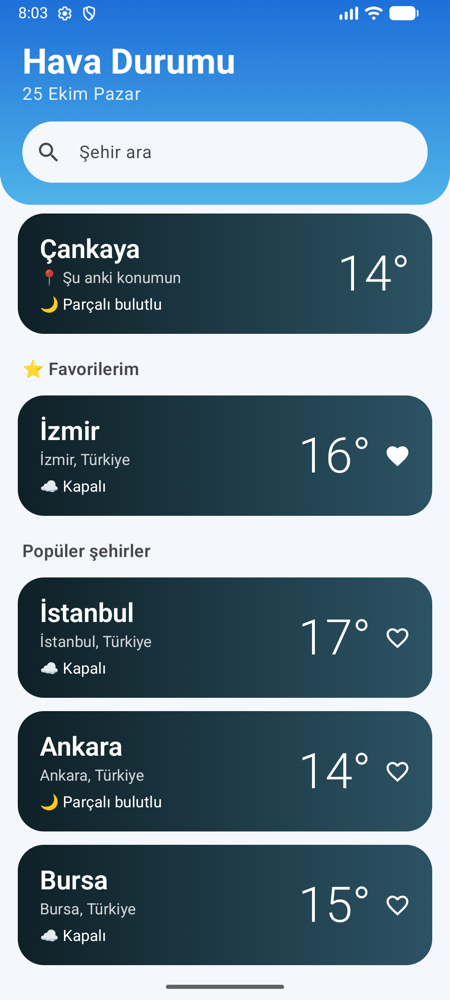
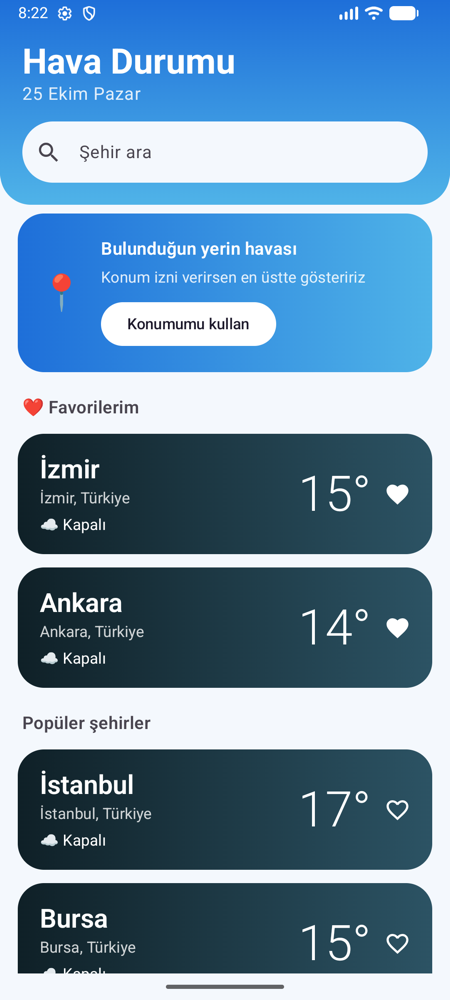
Yaşam döngüsü paneli kaldırıldı (sadece Logcat), favori başlığı kalple uyumlu

diff --git a/app/src/main/java/com/example/hava/DetailScreen.kt b/app/src/main/java/com/example/hava/DetailScreen.kt
@@ -1,8 +1,6 @@
 package com.example.hava
 
-import androidx.compose.animation.AnimatedVisibility
 import androidx.compose.foundation.background
-import androidx.compose.foundation.clickable
 import androidx.compose.foundation.layout.Arrangement
 import androidx.compose.foundation.layout.Box
 import androidx.compose.foundation.layout.Column
@@ -25,9 +23,6 @@ import androidx.compose.material.icons.Icons
 import androidx.compose.material.icons.automirrored.filled.ArrowBack
 import androidx.compose.material.icons.filled.Favorite
 import androidx.compose.material.icons.filled.FavoriteBorder
-import androidx.compose.material.icons.filled.KeyboardArrowDown
-import androidx.compose.material.icons.filled.KeyboardArrowUp
-import androidx.compose.material3.Button
 import androidx.compose.material3.Card
 import androidx.compose.material3.CardDefaults
 import androidx.compose.material3.CircularProgressIndicator
@@ -37,18 +32,11 @@ import androidx.compose.material3.IconButton
 import androidx.compose.material3.MaterialTheme
 import androidx.compose.material3.Text
 import androidx.compose.runtime.Composable
-import androidx.compose.runtime.getValue
-import androidx.compose.runtime.mutableIntStateOf
-import androidx.compose.runtime.mutableStateOf
-import androidx.compose.runtime.remember
-import androidx.compose.runtime.saveable.rememberSaveable
-import androidx.compose.runtime.setValue
 import androidx.compose.ui.Alignment
 import androidx.compose.ui.Modifier
 import androidx.compose.ui.draw.clip
 import androidx.compose.ui.graphics.Brush
 import androidx.compose.ui.graphics.Color
-import androidx.compose.ui.text.font.FontFamily
 import androidx.compose.ui.text.font.FontWeight
 import androidx.compose.ui.text.style.TextAlign
 import androidx.compose.ui.unit.dp
@@ -60,7 +48,6 @@ private val turkish = Locale.forLanguageTag("tr")
 
 @Composable
 fun DetailScreen(
-    activityNo: Int,
     onBack: () -> Unit,
     viewModel: DetailViewModel = viewModel()
 ) {
@@ -104,14 +91,6 @@ fun DetailScreen(
                     DetailsGrid(state.forecast)
                 }
             }
-
-            LifecyclePanel(
-                activityNo = activityNo,
-                viewModelNo = viewModel.instanceNo,
-                requestCount = viewModel.requestCount,
-                viewModelCounter = viewModel.counter,
-                onIncrement = { viewModel.increment() }
-            )
         }
     }
 }
@@ -388,110 +367,6 @@ private fun InfoTile(emoji: String, label: String, value: String, modifier: Modi
                 modifier = Modifier.padding(top = 4.dp)
             )
         }
-    }
-}
-
-// --- Yaşam döngüsü demosu ---
-// remember'daki sayaç Activity ile birlikte ölür (döndürünce 0'a döner),
-// ViewModel'deki sayaç ise döndürmeden etkilenmez.
-@Composable
-private fun LifecyclePanel(
-    activityNo: Int,
-    viewModelNo: Int,
-    requestCount: Int,
-    viewModelCounter: Int,
-    onIncrement: () -> Unit
-) {
-    var expanded by rememberSaveable { mutableStateOf(false) }   // döndürünce kapanmasın
-    var rememberCounter by remember { mutableIntStateOf(0) }      // döndürünce sıfırlanır!
-
-    Card(
-        shape = RoundedCornerShape(24.dp),
-        colors = CardDefaults.cardColors(containerColor = MaterialTheme.colorScheme.primaryContainer)
-    ) {
-        Row(
-            modifier = Modifier
-                .fillMaxWidth()
-                .clickable { expanded = !expanded }
-                .padding(16.dp),
-            verticalAlignment = Alignment.CenterVertically
-        ) {
-            Text(
-                text = "🔬  Yaşam döngüsü demosu",
-                style = MaterialTheme.typography.titleMedium,
-                fontWeight = FontWeight.SemiBold,
-                modifier = Modifier.weight(1f)
-            )
-            Icon(
-                imageVector = if (expanded) Icons.Default.KeyboardArrowUp else Icons.Default.KeyboardArrowDown,
-                contentDescription = null
-            )
-        }
-
-        AnimatedVisibility(visible = expanded) {
-            Column(
-                modifier = Modifier.padding(start = 16.dp, end = 16.dp, bottom = 16.dp),
-                verticalArrangement = Arrangement.spacedBy(12.dp)
-            ) {
-                Text(
-                    text = "Telefonu yan çevir: Activity ölüp yeniden doğar, ama ViewModel aynı kalır. " +
-                            "Bu yüzden ViewModel numarası ve API isteği sayısı değişmez.",
-                    style = MaterialTheme.typography.bodyMedium
-                )
-                Row(horizontalArrangement = Arrangement.spacedBy(8.dp)) {
-                    StatChip("Activity", "#$activityNo", Modifier.weight(1f))
-                    StatChip("ViewModel", "#$viewModelNo", Modifier.weight(1f))
-                    StatChip("API isteği", "$requestCount", Modifier.weight(1f))
-                }
-
-                Text(
-                    text = "Önce birkaç kez +1'e bas, sonra döndür:",
-                    style = MaterialTheme.typography.bodyMedium
-                )
-                Row(
-                    horizontalArrangement = Arrangement.spacedBy(8.dp),
-                    verticalAlignment = Alignment.CenterVertically
-                ) {
-                    StatChip("remember", "$rememberCounter", Modifier.weight(1f))
-                    StatChip("ViewModel", "$viewModelCounter", Modifier.weight(1f))
-                    Button(onClick = {
-                        rememberCounter++
-                        onIncrement()
-                    }) {
-                        Text("+1")
-                    }
-                }
-
-                Text(
-                    text = "Son olaylar (en yeni üstte)",
-                    style = MaterialTheme.typography.labelLarge,
-                    fontWeight = FontWeight.SemiBold
-                )
-                Column {
-                    LifecycleLog.events.forEach { event ->
-                        Text(
-                            text = event,
-                            style = MaterialTheme.typography.bodySmall,
-                            fontFamily = FontFamily.Monospace
-                        )
-                    }
-                }
-            }
-        }
-    }
-}
-
-@Composable
-private fun StatChip(label: String, value: String, modifier: Modifier = Modifier) {
-    Column(
-        modifier = modifier
-            .clip(RoundedCornerShape(16.dp))
-            .background(MaterialTheme.colorScheme.surface.copy(alpha = 0.6f))
-            .padding(vertical = 8.dp),
-        horizontalAlignment = Alignment.CenterHorizontally
-    ) {
-        Text(value, style = MaterialTheme.typography.titleLarge, fontWeight = FontWeight.Bold)
-        Text(label, style = MaterialTheme.typography.labelSmall)
     }
 }
 

diff --git a/app/src/main/java/com/example/hava/DetailViewModel.kt b/app/src/main/java/com/example/hava/DetailViewModel.kt
@@ -1,7 +1,6 @@
 package com.example.hava
 
 import androidx.compose.runtime.getValue
-import androidx.compose.runtime.mutableIntStateOf
 import androidx.compose.runtime.mutableStateOf
 import androidx.compose.runtime.setValue
 import androidx.lifecycle.SavedStateHandle
@@ -42,12 +41,9 @@ class DetailViewModel(
     var isFavorite by mutableStateOf(false)
         private set
 
-    // --- Yaşam döngüsü demosu için ---
-    val instanceNo = ++createdCount                  // bu kaçıncı DetailViewModel?
-    var requestCount by mutableIntStateOf(0)         // API'ye kaç kez gidildi?
-        private set
-    var counter by mutableIntStateOf(0)              // "+1" düğmesinin ViewModel'deki sayacı
-        private set
+    // Logcat'te yaşam döngüsünü izlemek için
+    private val instanceNo = ++createdCount          // bu kaçıncı DetailViewModel?
+    private var requestCount = 0                     // API'ye kaç kez gidildi?
 
     init {
         LifecycleLog.add("DetailViewModel #$instanceNo oluşturuldu")
@@ -78,10 +74,6 @@ class DetailViewModel(
                 DetailUiState.Error("Bir hata oluştu: ${e.message}")
             }
         }
-    }
-
-    fun increment() {
-        counter++
     }
 
     // Activity gerçekten bittiğinde (döndürmede DEĞİL) çağrılır

diff --git a/app/src/main/java/com/example/hava/LifecycleLog.kt b/app/src/main/java/com/example/hava/LifecycleLog.kt
@@ -1,22 +1,12 @@
 package com.example.hava
 
 import android.util.Log
-import androidx.compose.runtime.mutableStateListOf
-import java.text.SimpleDateFormat
-import java.util.Date
-import java.util.Locale
 
-// Activity ve ViewModel'lerin doğum/ölüm anlarını tutan küçük günlük.
-// "object" olduğu için uygulama açık kaldıkça yaşar → Activity ölse bile kayıtlar kaybolmaz.
-// Detay ekranındaki "Yaşam döngüsü" kartında ve Logcat'te ("tag:Yasam") görünür.
+// Activity ve ViewModel'lerin doğum/ölüm anlarını Logcat'e yazar.
+// Android Studio → Logcat → arama kutusuna "tag:Yasam" yazarak izleyebilirsin.
 object LifecycleLog {
-
-    val events = mutableStateListOf<String>()   // en yeni olay en üstte
 
     fun add(event: String) {
         Log.d("Yasam", event)
-        val time = SimpleDateFormat("HH:mm:ss", Locale.getDefault()).format(Date())
-        events.add(0, "$time  $event")
-        if (events.size > 15) events.removeAt(events.lastIndex)   // sadece son 15 olay
     }
 }

diff --git a/app/src/main/java/com/example/hava/MainActivity.kt b/app/src/main/java/com/example/hava/MainActivity.kt
@@ -142,7 +142,7 @@ fun CityScreen(
                     val sections = if (viewModel.query.isBlank()) {
                         val favoriteIds = viewModel.favorites.map { it.id }.toSet()
                         listOf(
-                            CitySection("favoriler", "⭐ Favorilerim", viewModel.favorites),
+                            CitySection("favoriler", "❤ Favorilerim", viewModel.favorites),
                             CitySection("populer", "Popüler şehirler", state.cities.filterNot { it.id in favoriteIds })
                         )
                     } else {
@@ -180,7 +180,7 @@ fun CityScreen(
     }
 }
 
-// Listede başlığıyla birlikte bir grup şehir (ör. "⭐ Favorilerim")
+// Listede başlığıyla birlikte bir grup şehir (ör. "❤ Favorilerim")
 data class CitySection(
     val key: String,          // LazyColumn için değişmeyen kimlik
     val title: String,

diff --git a/app/src/main/java/com/example/hava/DetailActivity.kt b/app/src/main/java/com/example/hava/DetailActivity.kt
@@ -14,7 +14,7 @@ import androidx.compose.ui.Modifier
 import com.example.hava.ui.theme.HavaTheme
 
 // Şehir detayı için AYRI bir Activity (Navigation yerine bilerek Activity kullandık:
-// iki Activity arasında geçerken yaşam döngüsünü Logcat'te ve ekranda görebilmek için)
+// iki Activity arasında geçerken yaşam döngüsünü Logcat'te "tag:Yasam" ile görebilmek için)
 class DetailActivity : ComponentActivity() {
 
     private var activityNo = 0    // bu kaçıncı DetailActivity nesnesi?
@@ -32,7 +32,6 @@ class DetailActivity : ComponentActivity() {
                     color = MaterialTheme.colorScheme.background
                 ) {
                     DetailScreen(
-                        activityNo = activityNo,
                         onBack = { finish() }      // Activity'yi kapat → bir önceki ekrana dön
                     )
                 }

diff --git a/README.md b/README.md
@@ -3,9 +3,9 @@
 Turkcell Bilişim Kampı (Android) için geliştirilmiş, Jetpack Compose ile yazılmış bir hava durumu uygulaması.
 Şehir arayabilir, favorilerini kaydedebilir, bulunduğun yerin ve herhangi bir şehrin saatlik/günlük tahminini görebilirsin.
 
-| Ana ekran | Arama | Şehir detayı | Yaşam döngüsü demosu |
-|:-:|:-:|:-:|:-:|
-| <img src="docs/screenshots/main.png" width="200"> | <img src="docs/screenshots/search.png" width="200"> | <img src="docs/screenshots/detail.png" width="200"> | <img src="docs/screenshots/lifecycle.png" width="200"> |
+| Ana ekran | Arama | Şehir detayı |
+|:-:|:-:|:-:|
+| <img src="docs/screenshots/main.png" width="220"> | <img src="docs/screenshots/search.png" width="220"> | <img src="docs/screenshots/detail.png" width="220"> |
 
 ## Özellikler
 
@@ -48,18 +48,15 @@ flowchart LR
 - **Repository** verinin nereden geleceğine karar verir. ViewModel internetten mi veritabanından mı geldiğini bilmez.
   Bu sayede testlerde gerçek API ve veritabanı yerine sahte sınıflar verilebiliyor.
 
-## Yaşam döngüsü demosu
+## Yaşam döngüsü (Logcat)
 
-Detay ekranının en altındaki **🔬 Yaşam döngüsü demosu** kartı, Activity ile ViewModel'in farklı ömürlerini canlı gösterir:
+Activity ve ViewModel'lerin doğup ölmesi Logcat'e yazılır. Android Studio → **Logcat** → `tag:Yasam`:
 
-1. Bir şehre dokun → `DetailActivity #1` ve `DetailViewModel #1` oluşur, API'ye **1** istek gider.
-2. **+1**'e birkaç kez bas, sonra telefonu yan çevir.
-3. Activity numarası artar (eski Activity öldü, yenisi doğdu), ama **ViewModel numarası ve API isteği sayısı aynı kalır**.
-   `remember` ile tutulan sayaç 0'a döner, ViewModel'deki sayaç kaldığı yerden devam eder.
-4. Geri tuşuna basınca `onDestroy (kapandı)` ve `DetailViewModel silindi (onCleared)` görünür.
-   Detay açıkken arkadaki MainActivity ölmez, sadece `onStop` olur.
-
-Aynı olaylar Logcat'te `tag:Yasam` filtresiyle de görülebilir.
+1. Bir şehre dokun: `DetailActivity #1 onCreate`, `DetailViewModel #1 oluşturuldu`, `API isteği #1`.
+   Arkadaki MainActivity ölmez, sadece `onStop` olur.
+2. Telefonu yan çevir: `DetailActivity #1 onDestroy (döndürme)` → `DetailActivity #2 onCreate`.
+   **Yeni ViewModel oluşmaz ve API'ye tekrar istek gitmez**: ViewModel döndürmeden etkilenmez.
+3. Geri tuşu: `DetailViewModel #1 silindi (onCleared)` ve `DetailActivity #2 onDestroy (kapandı)`.
 
 ## Çalıştırma
 
@@ -78,13 +75,13 @@ Testleri çalıştırmak için:
 app/src/main/java/com/example/hava/
 ├── MainActivity.kt        Ana ekran: başlık, arama, konum kartı, favoriler, şehir listesi
 ├── DetailActivity.kt      Şehir detayı için ayrı Activity
-├── DetailScreen.kt        Detay ekranının arayüzü + yaşam döngüsü paneli
+├── DetailScreen.kt        Detay ekranının arayüzü
 ├── CityViewModel.kt       Ana ekranın durumu (arama, favoriler, konum, yenileme)
 ├── DetailViewModel.kt     Detay ekranının durumu
 ├── CityRepository.kt      API, veritabanı ve konumu tek yerden yöneten katman
 ├── CityApi.kt / WeatherApi.kt / ApiClient.kt   Retrofit
 ├── AppDatabase.kt / FavoriteDao.kt / FavoriteCity.kt   Room
 ├── LocationProvider.kt    Telefonun konumu → şehir
-├── LifecycleLog.kt        Activity/ViewModel olay günlüğü
+├── LifecycleLog.kt        Activity/ViewModel olaylarını Logcat'e yazar
 └── ...                    Kartlar, durum ekranları, tema, hava kodları
 ```
